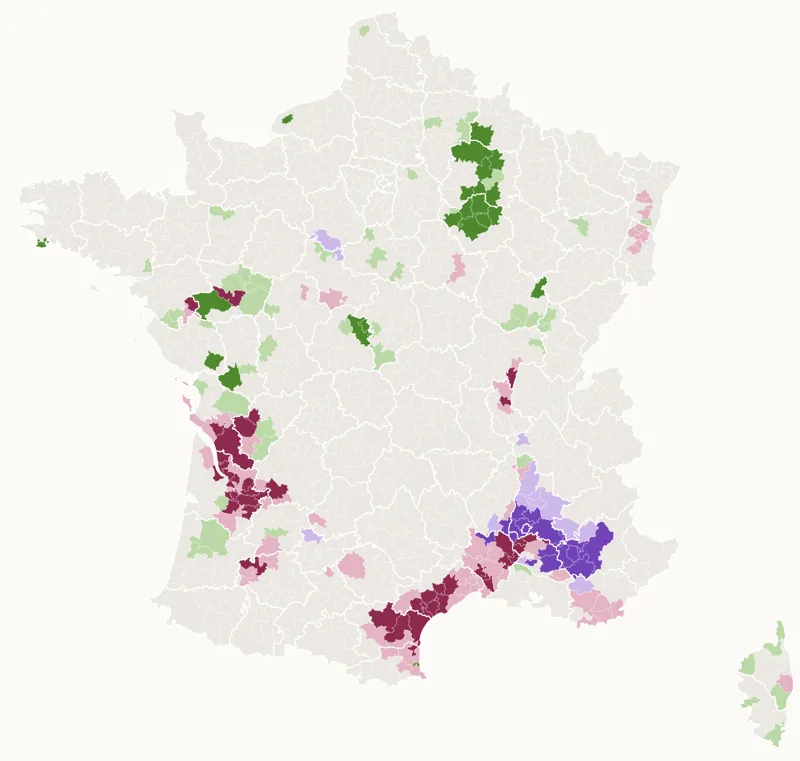
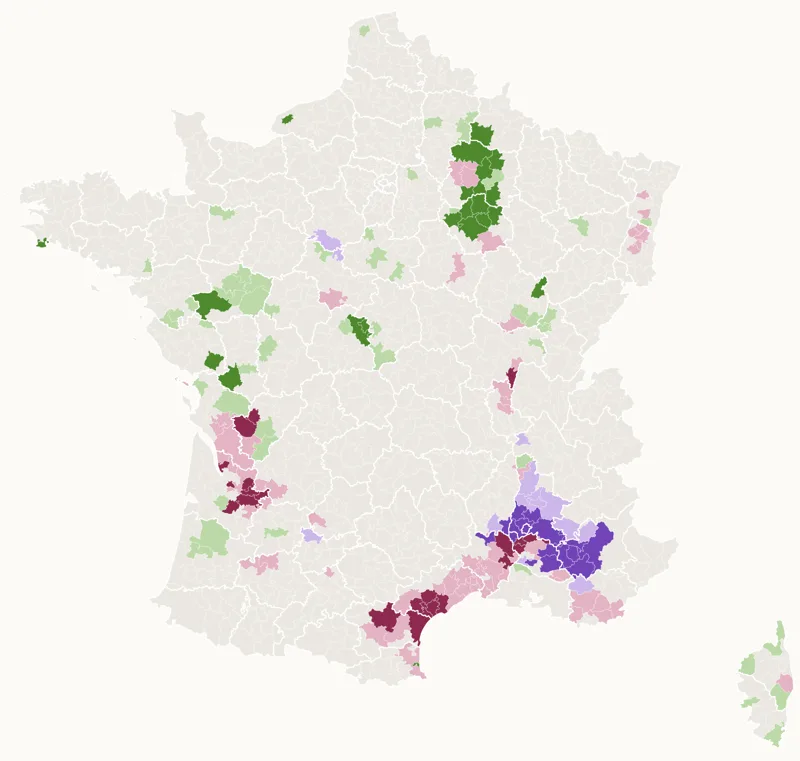
change angle

diff --git a/jours/_liens/19-smell.py b/jours/_liens/19-smell.py
@@ -1,6 +1,10 @@
-# Le fichier que lit la page J19 : sa copie sur le SSP Cloud, et en
-# commentaire son adresse officielle.
+# Les fichiers que lit la page J19 : leurs copies sur le SSP Cloud, et en
+# commentaire leurs adresses officielles.
 SOURCES = {
+    # https://agreste.agriculture.gouv.fr/agreste-web/download/publication/publie/RA2020_1013_EPCI/FDS_RA2020_1013_EPCI.csv
+    "vigne": "https://minio.lab.sspcloud.fr/lgaliana/30daymapchallenge2026/FDS_RA2020_1013_EPCI.csv",
     # https://www.insee.fr/fr/statistiques/fichier/2510634/Intercommunalite_Metropole_au_01-01-2021.zip
     "intercommunalites_2021": "https://minio.lab.sspcloud.fr/lgaliana/30daymapchallenge2026/Intercommunalite_Metropole_au_01-01-2021.zip",
+    # https://www.insee.fr/fr/statistiques/fichier/2510634/Intercommunalite_Metropole_au_01-01-2020_v1.zip
+    "intercommunalites_2020": "https://minio.lab.sspcloud.fr/lgaliana/30daymapchallenge2026/Intercommunalite_Metropole_au_01-01-2020_v1.zip",
 }
